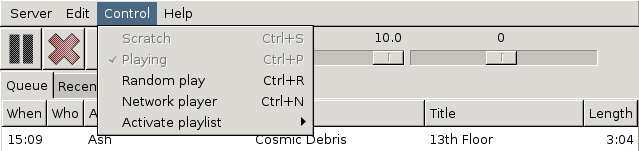
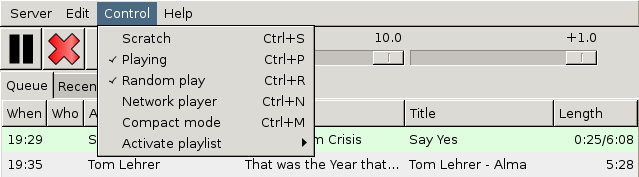
Update Disobedience manual for compact mode interface. Resolve some TODOs.

diff --git a/disobedience/manual/window.html b/disobedience/manual/window.html
@@ -129,7 +129,7 @@ along with this program.  If not, see <http://www.gnu.org/licenses/>.
    first time it is run, <b>Manage Users</b> which allows
    adminstrators to do user management, and <b>Quit</b>.</p>
 
-   <!-- TODO link to use management -->
+   <!-- TODO link to user management -->
 
    <p class=image><img src="menu-edit.png"></p>
 
@@ -139,21 +139,17 @@ along with this program.  If not, see <http://www.gnu.org/licenses/>.
    mouse.</p>
 
    <p>The <b>Track Properties</b> option will create a window with
-   editable properties of each selected track and the <b>Edit
-   Playlists</b> option will create a window allowing editing of
-   playlists.</p>
-
-   <!-- TODO link to properties -->
-
-   <!-- TODO link to playlists -->
+   editable <a href="properties.html">properties</a> of each selected
+   track and the <b>Edit Playlists</b> option will create a window
+   allowing editing of <a href="playlists.html">playlists</a>.</p>
 
    <p class=image><img src="menu-control.png"></p>
 
    <p>The <b>Control</b> menu options are mostly equivalent to the
-   buttons described above.  The one exception is <b>Activate
-   Playlist</b> which allows you to play a playlist.</p>
-
-   <!-- TODO link to playlists -->
+   buttons described above.  The exceptions is <b>Activate
+   Playlist</b> which allows you to play
+   a <A href="playlists.html">playlist</a>, and <b>Compact Mode</b>
+   which switches Disobedience's window to a smaller format.</p>
 
    <p class=image><img src="menu-help.png"></p>
 
